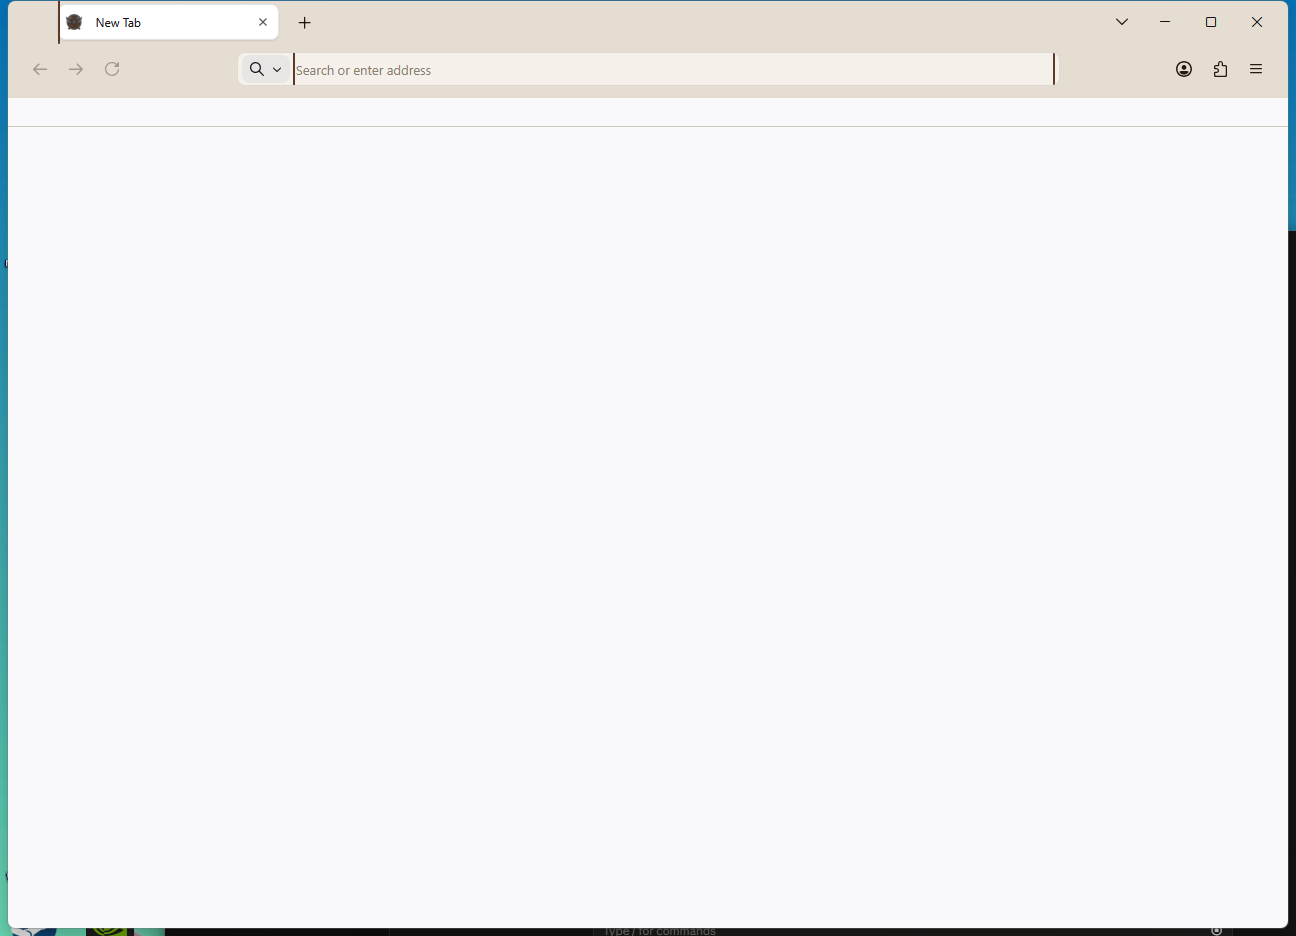
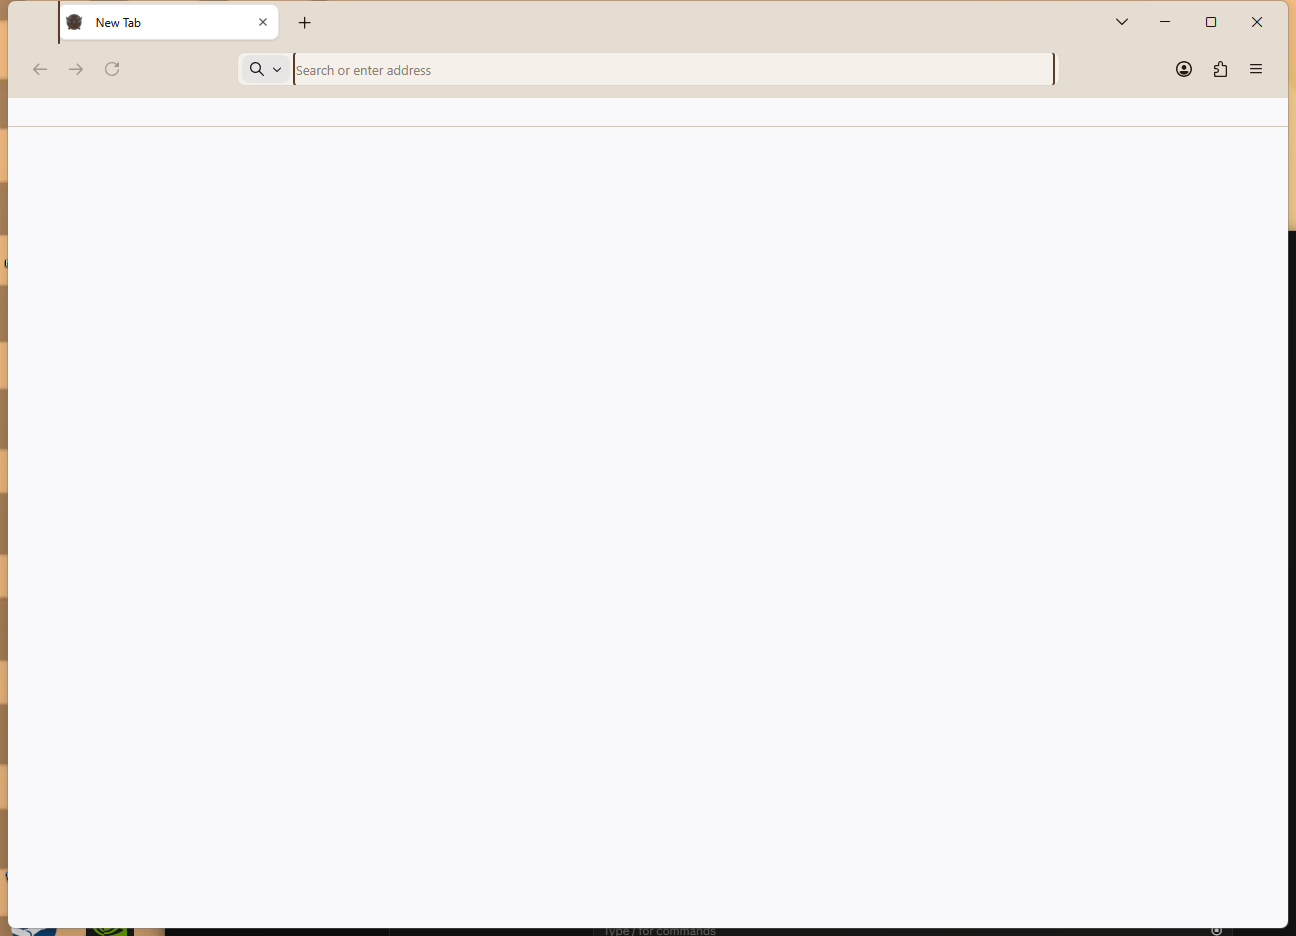
Interface confirmed working in the built browser
Measured, not eyeballed. Sampling the screenshot against the palette:

  tab strip        #1C1F25  = --vn-bg-chrome    (distance 0)
  navigation bar   #23272E  = --vn-bg-surface   (distance 0)
  active tab       #2D323A  = --vn-bg-selected  (distance 0)

Distance to Firefox's own dark palette is 16-40 on the same pixels.

Worth recording why this needed measuring: in light theme I first read our
own palette as stock Firefox and concluded the styles had not applied. The
structure still resembles Firefox — the parts we have not restyled yet —
and that was enough to mislead me. Colour sampling settled it in seconds
where staring at screenshots had not.

Marionette does not hand out sessions against this build, so the tooling
built earlier does not work here yet. Not chased: the screenshot comparison
answers the question this stage actually asks.

Changed region(s): [[0.0, 0.0, 0.1543, 1.0], [0.9877, 0.0, 1.0, 0.2479]]

diff --git a/README.md b/README.md
@@ -30,7 +30,11 @@ Vantara — форк Firefox с полностью переписанным ин
 
 ## Состояние
 
-Проект в начале разработки. Готово:
+Браузер собирается и запускается: `vantara.exe` со своим именем, иконкой
+и идентификатором приложения, без телеметрии и отчётов о сбоях — они
+вырезаны на этапе компиляции.
+
+Готово:
 
 - Дизайн-система, брендинг и свой набор иконок
 - Интерфейс: окно, вкладки, адресная строка, меню, анимации
@@ -38,6 +42,7 @@ Vantara — форк Firefox с полностью переписанным ин
 - Своя страница новой вкладки — без слежки за историей
 - Профиль приватности — около 90 настроек с объяснением каждой группы
 - Окружение для разработки интерфейса
+- Сборка форка из исходников Firefox 156
 
 В работе — [этап 1](docs/ROADMAP.md): боковая панель, свой заголовок окна,
 собственная страница новой вкладки.

diff --git a/docs/ROADMAP.md b/docs/ROADMAP.md
@@ -70,7 +70,10 @@
 - [x] Брендинг: иконки, имя, цвет — генерируются из логотипа
 - [x] Чужие адреса из инструмента сборки вычищены (см. `tools/fix-branding.py`)
 - [x] Телеметрия и отчёты о сбоях отключены на уровне компиляции
-- [ ] Первая сборка — убедиться, что собирается вообще
+- [x] Первая сборка: vantara.exe запускается, xul.dll на месте
+- [x] Интерфейс внутри сборки, а не в профиле (`tools/sync-ui.py`)
+- [x] Приёмка сборки по фактам (`tools/verify-build.py`)
+- [x] Сервер обновлений больше не мозилловский
 - [ ] Установщик со строками Vantara
 - [ ] Перенести `ui/chrome/` в `src/browser/themes/vantara/`
 - [ ] Перенести `user.js` в заводские дефолты `browser/app/profile/vantara.js`
